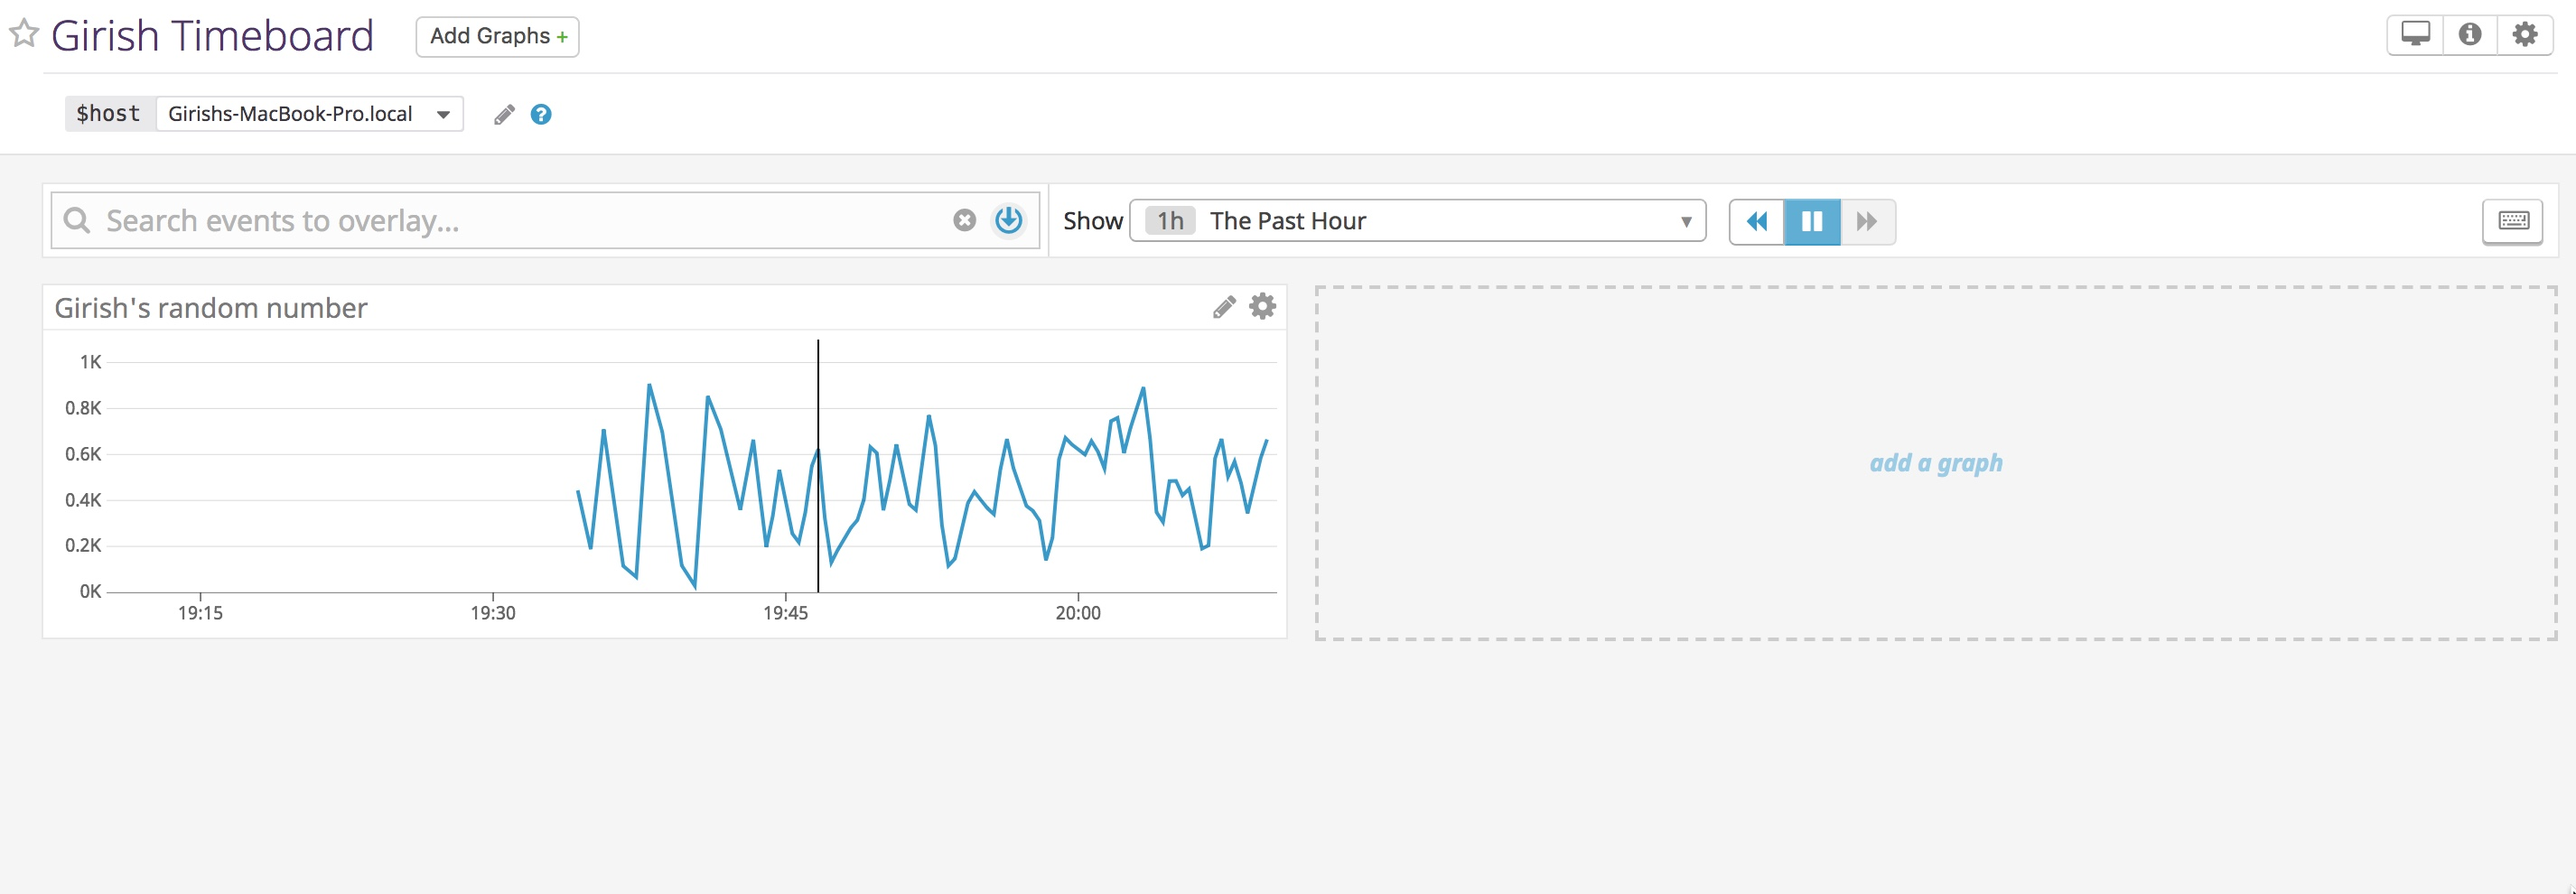
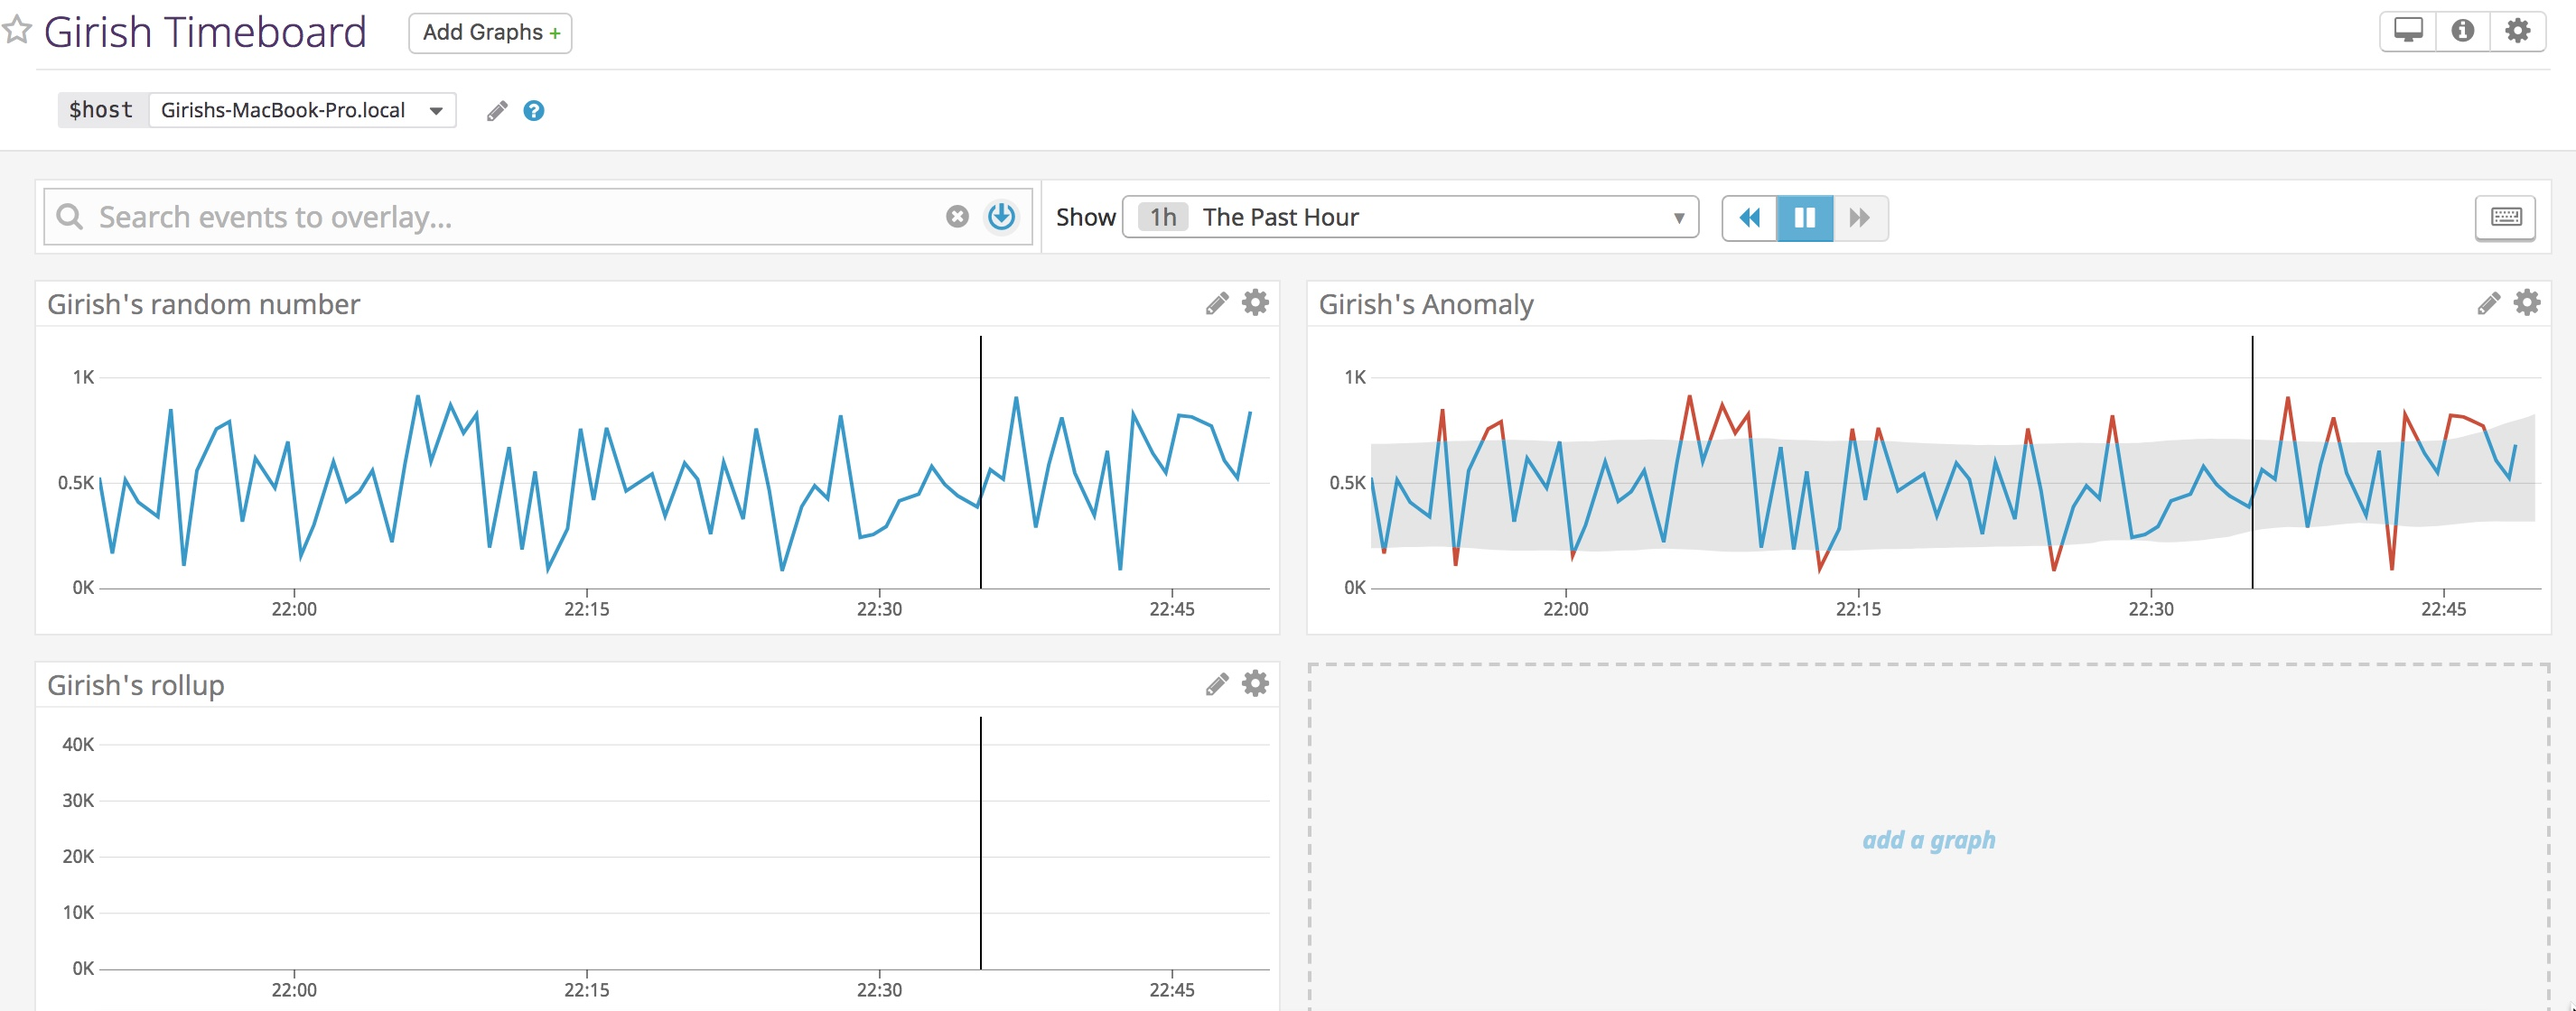
Added anomaly and rollup metrics

diff --git a/scripts/create_timeboard.py b/scripts/create_timeboard.py
@@ -16,6 +16,26 @@ graphs = [{
         "viz": "timeseries"
     },
     "title": "Girish's random number"
+},
+{
+    "definition": {
+        "events": [],
+        "requests": [
+            {"q": "anomalies(avg:girish.random{*}, 'basic', 2)"}
+        ],
+        "viz": "timeseries"
+    },
+    "title": "Girish's anomaly"
+},
+{
+    "definition": {
+        "events": [],
+        "requests": [
+            {"q": "avg:girish.random{*}.rollup(sum, 3600)"}
+        ],
+        "viz": "timeseries"
+    },
+    "title": "Girish's rollup"
 }]
 
 template_variables = [{

diff --git a/answers.md b/answers.md
@@ -19,7 +19,7 @@ The integration with AWS was a breeze. Here is a view of one of my EC2 instances
 
 ### Exercise 2
 
-The Datadog MongoDB agent is setup to monitor on my local workstation.
+The Datadog MongoDB agent is setup to monitor MongoDB running on my Macbook.
 
 ![MongoDB Metrics](./images/mongo_metrics.jpeg)
 
@@ -57,7 +57,12 @@ The Datadog API is simple and elegant. I was able to quickly create a ![python s
 ![Custom Metric Timeboard](./images/custom_metric_timeboard.jpeg)
 
 
-### TODO 2
+### Exercise 6
+TODO: Any metric from the Integration on your Database with the anomaly function applied.
+
+
+### Exercise 7
+TODO: Your custom metric with the rollup function applied to sum up all the points for the past hour into one bucket 
 
 
 
@@ -117,25 +122,25 @@ ddtrace-run python flask_app.py
 I instrumented a Tomcat container with Datadog Java agent. The steps to setup the agent:
 
 ```
-export JAVA_OPTS="java -javaagent:datadog/dd-java-agent-0.16.0.jar" 
+export JAVA_OPTS="-javaagent:datadog/dd-java-agent-0.16.0.jar" 
 ```
 
 The resulting APM data were as follows:
 
-#####APM Services
+####APM Services
 ![APM Services](./images/apm_services.jpeg)
 
-#####APM Traces
+####APM Traces
 ![APM Traces](./images/apm_traces.jpeg)
 
 
-**Bonus: The Services are various layers of the applications that provide a funciton. The Resources are assets like files, images, endpoints, etc.**
+**Bonus: The Services are various layers of the applications that provide a function. The Resources are assets like files, images, endpoints, etc.**
 
 
 ---
 
 ## Final Question/Answer
 
-I read the blogs on using Datadog to monitor NYC Subway System and Pokemon Go. A practical use that I can think of is to monitor home water usage to identify excessive water bill due to leaky faucets, toilets, sprinkler system, etc.
+I read the blogs on using Datadog to monitor NYC Subway System and Pokemon Go. Another practical use could be to monitor home water usage to identify excessive water usage due to leaky faucets, toilets, sprinkler system, etc. If you have ever experienced one, you could end up with a hefty bill.
 
 
